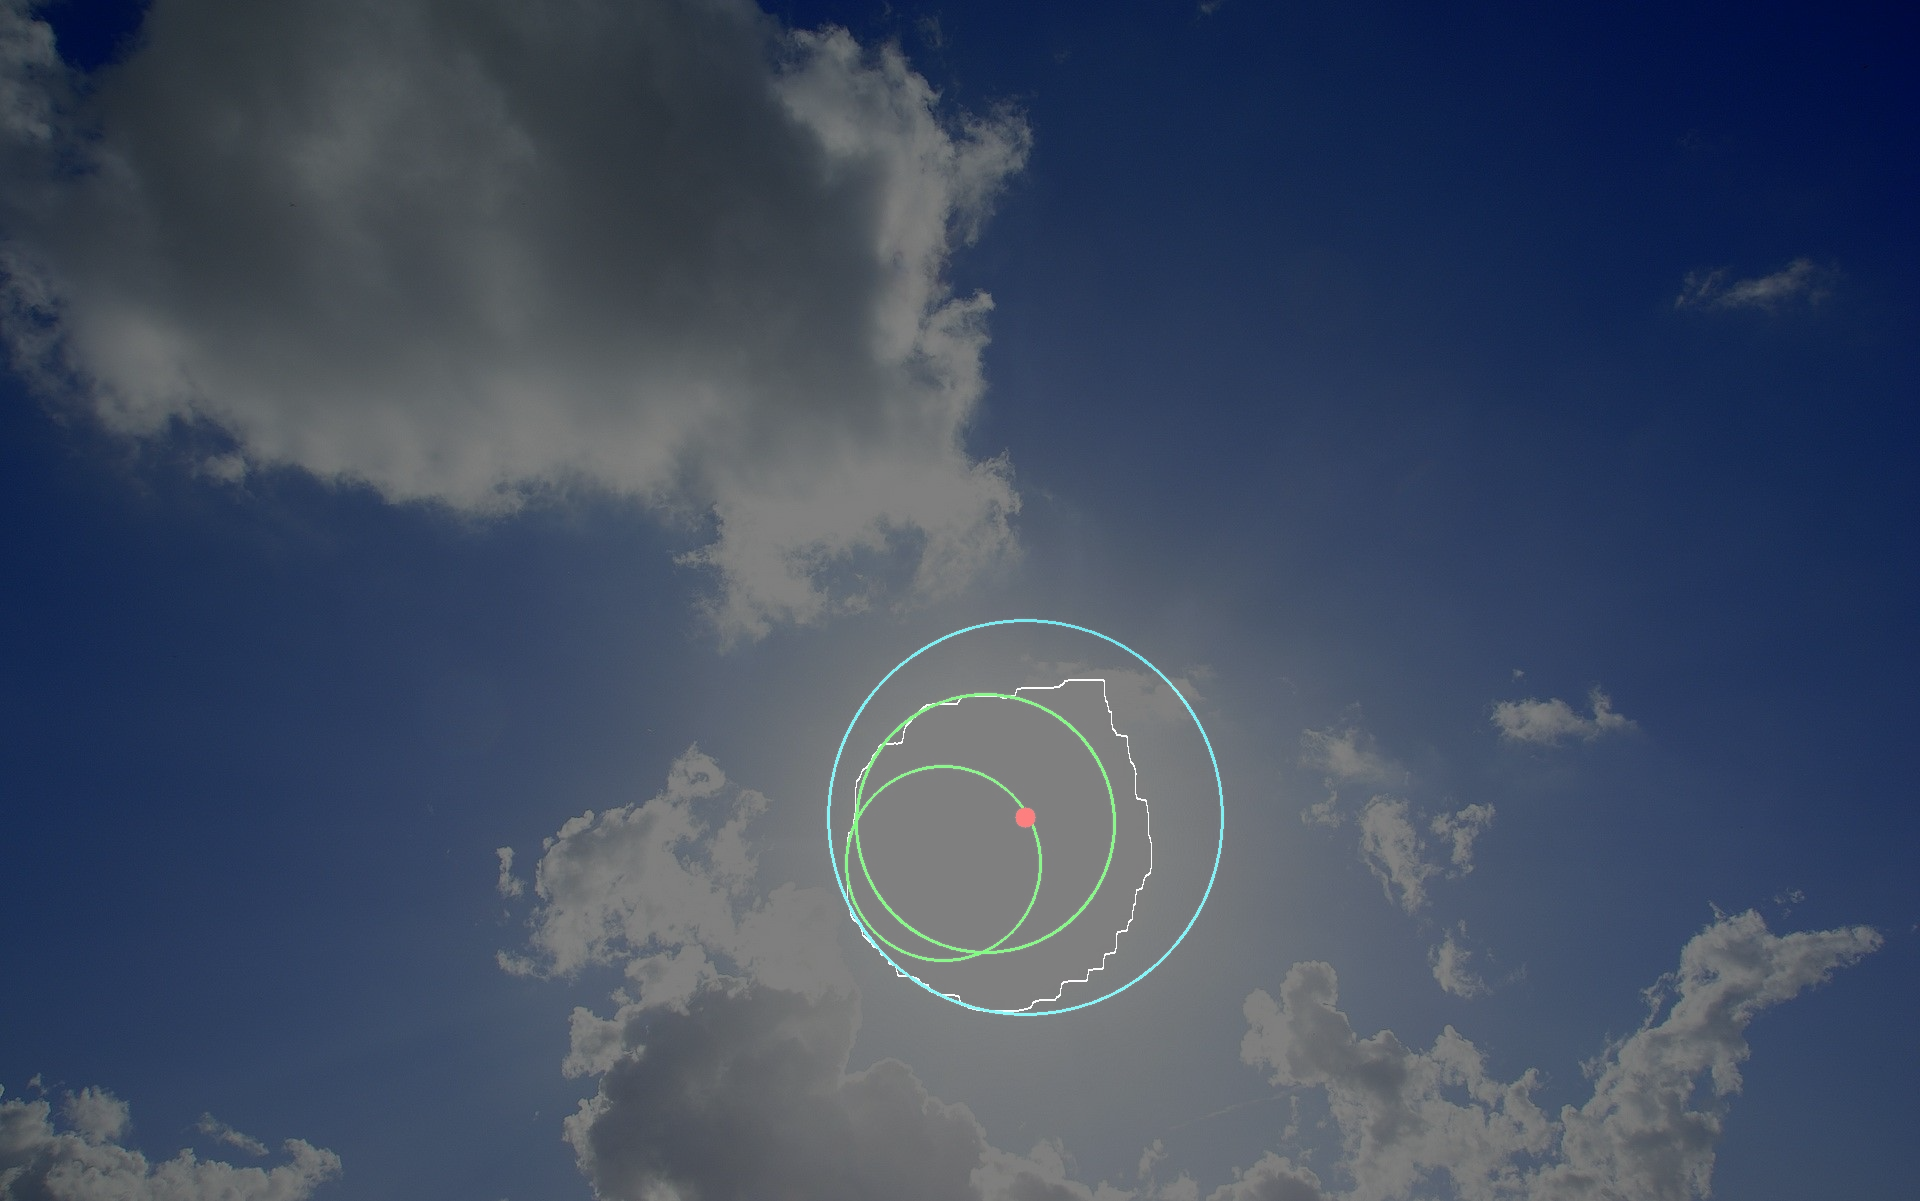
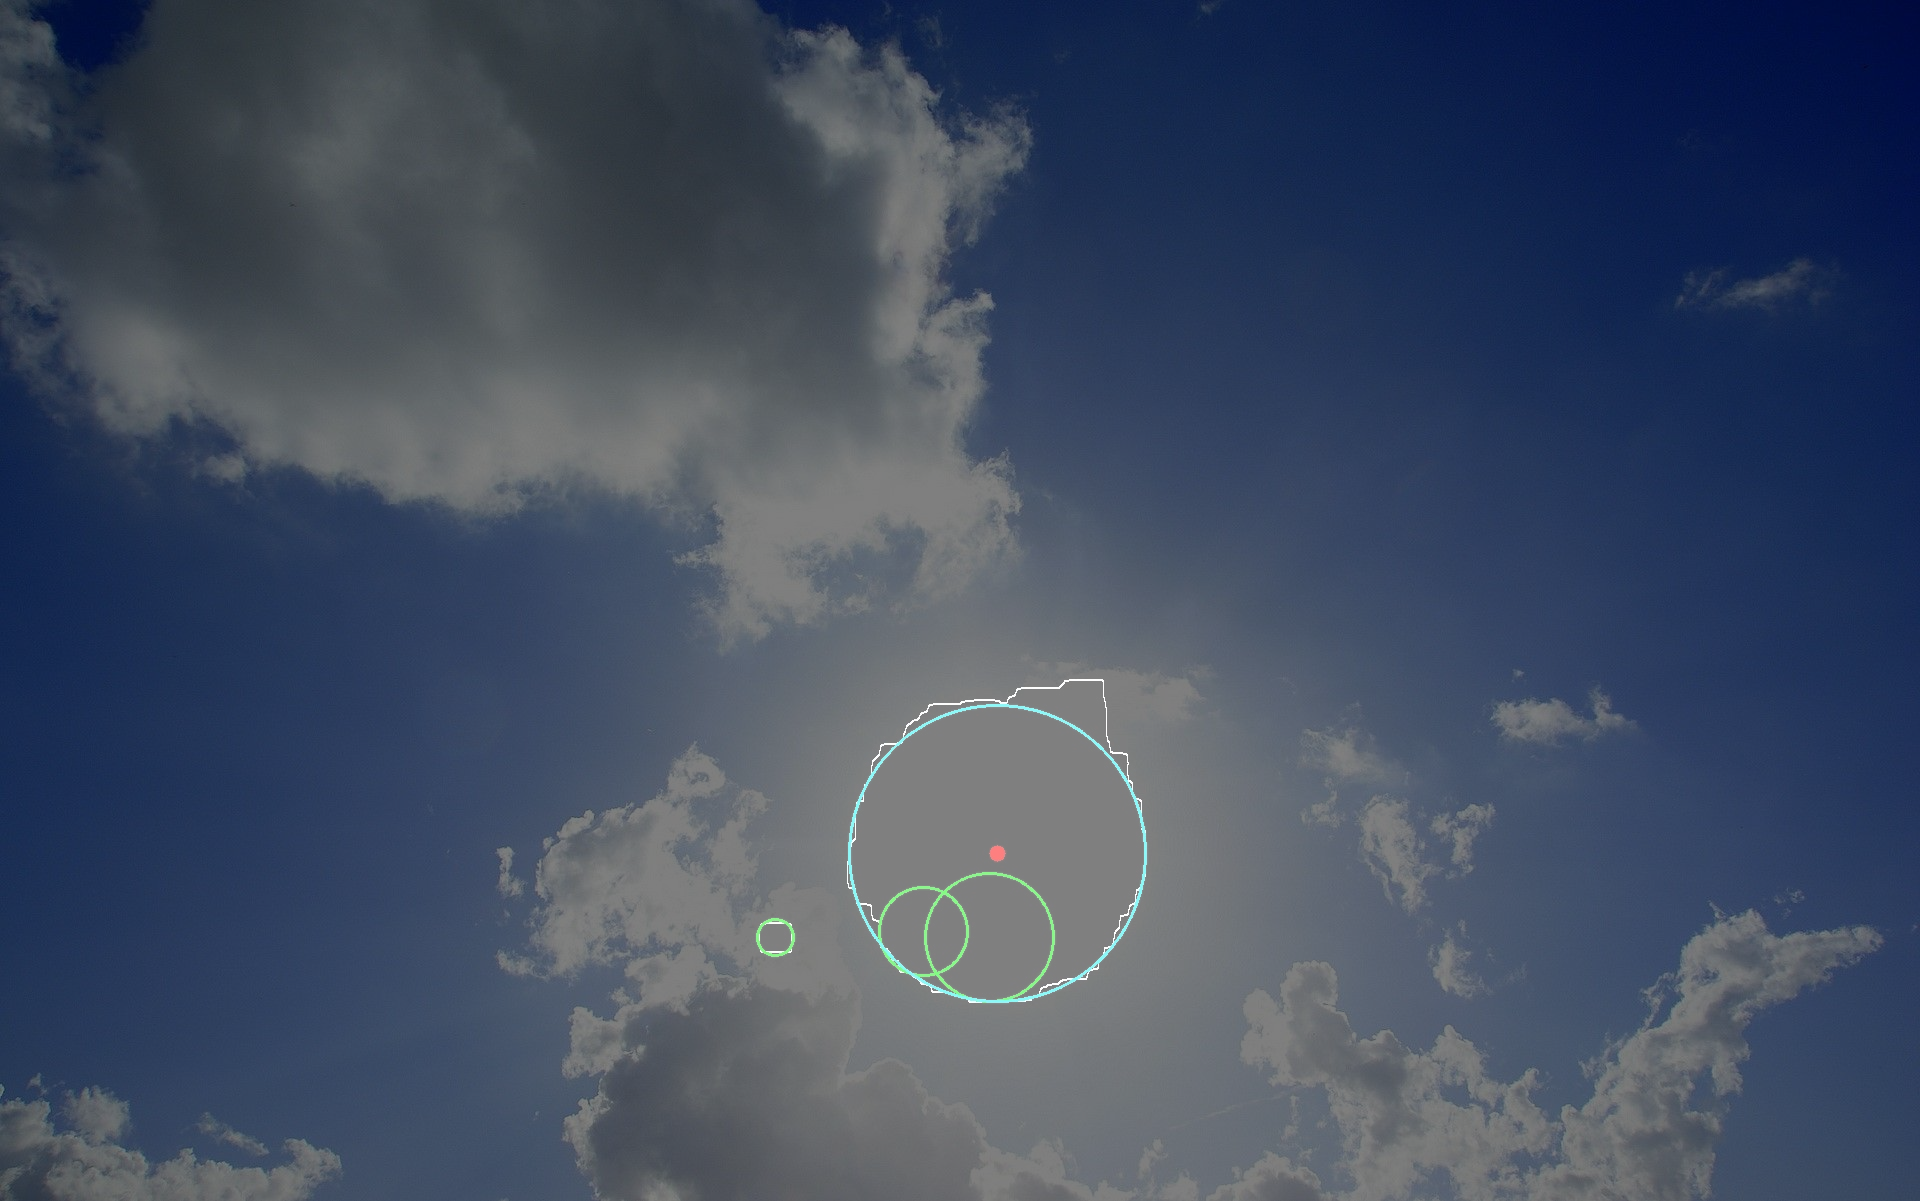
push
updates and stuff

diff --git a/pull_sun_from_image/erosion.py b/pull_sun_from_image/erosion.py
@@ -5,10 +5,42 @@ import os
 import cv2
 import numpy as np
 
-from PIL import Image
+from PIL import Image, ImageEnhance, ImageOps
 import numpy as np
 from collections import Counter
 
+
+def edit_image(image_path):
+    """
+    Edit the input image to enhance the sun's features.
+
+    Args:
+        image_path (str): The path to the input image.
+
+    Returns:
+        PIL.Image: The edited image.
+    """
+    # Load the input image
+    image = Image.open(image_path)
+
+    # Minimize exposure
+    enhancer = ImageEnhance.Brightness(image)
+    image = enhancer.enhance(0.5)  # Decrease the brightness (0.5 is an arbitrary low value)
+
+    # Maximize contrast
+    enhancer = ImageEnhance.Contrast(image)
+    image = enhancer.enhance(2.0)  # Increase the contrast (2.0 is an arbitrary high value)
+
+    # Minimize saturation
+    enhancer = ImageEnhance.Color(image)
+    image = enhancer.enhance(0.0)  # Decrease the color (0.0 removes all color)
+
+    # Maximizing shadows and highlights involves enhancing specific areas
+    # Apply auto contrast to enhance shadows and highlights
+    image = ImageOps.autocontrast(image)
+
+    # Return the edited image
+    return image
 
 def extract_white_and_darker_pixels(input_image):
     """
@@ -50,12 +82,16 @@ def extract_white_and_darker_pixels(input_image):
         high_frequency_intensities = []
         print(total_pixels)
 
-        #print("Intensity frequencies (sorted by intensity, cutoff after first intensity count under 100):")
+        reached = 0
+        # print("Intensity frequencies (sorted by intensity, cutoff after first intensity count under a threshold):")
         sorted_intensities = sorted(intensity_counter.items(), key=lambda x: x[0], reverse=True)
         for intensity, frequency in sorted_intensities:
-            #print(f"Intensity: {intensity}, Frequency: {frequency}")
-            if frequency < total_pixels * 0.000045:
+            # print(f"Intensity: {intensity}, Frequency: {frequency}")
+            if frequency > total_pixels * 0.000045:
+                reached += 1
+            if frequency < total_pixels * 0.000045 and reached >= 1:
                 break
+                # pass
             else:
                 high_frequency_intensities.append(intensity)
 
@@ -77,7 +113,11 @@ def extract_white_and_darker_pixels(input_image):
                     white_points.append((x, y))
 
         # Save the output image
-        output_image = "output_image.jpg"
+        directory = "sun_pulled_images"
+        if not os.path.exists(directory):
+            os.makedirs(directory)
+
+        output_image = f"{directory}/extracted_{os.path.splitext(os.path.basename(input_image))[0]}.jpg"
         white_image.save(output_image)
         print(f"White pixels and the next darker shades extracted and saved to {output_image}")
 
@@ -143,6 +183,8 @@ def apply_erosion(input_image):
         x_iterations_back = iterations + 1
     elif iterations:
         x_iterations_back = iterations - taken
+    else:
+        x_iterations_back = 0
 
     # Ensure we do not access out of bounds in the history list
     if x_iterations_back <= iterations:
@@ -171,28 +213,33 @@ def detect_circles(image):
     # Convert to grayscale if needed
     gray_image = cv2.cvtColor(image, cv2.COLOR_BGR2GRAY) if len(image.shape) == 3 else image.copy()
     color_image = cv2.cvtColor(gray_image, cv2.COLOR_GRAY2BGR)
-    
+
+    # Calculate the maximum distance between white pixels
+    white_pixels = np.column_stack(np.where(gray_image > 250))
+    if white_pixels.size > 0:
+        max_distance = np.max(np.linalg.norm(white_pixels[:, None] - white_pixels, axis=2))
+        mean_x = round(np.mean(white_pixels[:, 1]) if white_pixels.size > 0 else None)
+        mean_y = round(np.mean(white_pixels[:, 0]) if white_pixels.size > 0 else None)
+    else:
+        max_distance = 0
+        mean_x, mean_y = None, None
+
+    max_radius_allowed = 1.5 * max_distance
     max_radius, max_center = 0, None
-    
+
     # Hough Circle Transform
-    circles = cv2.HoughCircles(gray_image, cv2.HOUGH_GRADIENT, 1.2, 20, param1=50, param2=30, minRadius=1, maxRadius=1000)
+    circles = cv2.HoughCircles(gray_image, cv2.HOUGH_GRADIENT, 1.2, 20, param1=50, param2=30, minRadius=1, maxRadius=int(max_radius_allowed))
     if circles is not None:
         for circle in np.uint16(np.around(circles))[0, :]:
-            cv2.circle(color_image, (circle[0], circle[1]), circle[2], (0, 255, 0), 2)
-            if circle[2] > max_radius:
-                max_radius, max_center = circle[2], (circle[0], circle[1])
+            if circle[2] <= max_radius_allowed:
+                cv2.circle(color_image, (circle[0], circle[1]), circle[2], (0, 255, 0), 2)
+                if circle[2] > max_radius:
+                    max_radius, max_center = circle[2], (circle[0], circle[1])
 
-    # Threshold and find contours
-    _, thresholded_image = cv2.threshold(gray_image, 250, 255, cv2.THRESH_BINARY)
-    contours, _ = cv2.findContours(thresholded_image, cv2.RETR_EXTERNAL, cv2.CHAIN_APPROX_NONE)
-    
-    for contour in contours:
-        radius = np.sqrt(cv2.contourArea(contour) / np.pi)
-        if radius > max_radius:
-            max_radius = radius
-            x, y, w, h = cv2.boundingRect(contour)
-            max_center = (x + w // 2, y + h // 2)
-    
+    if max_radius == 0 and max_distance > 0:  # No circles found, use max distance between white pixels
+        max_radius = max_distance / 2
+        max_center = (mean_x, mean_y)
+
     if max_center:
         cv2.circle(color_image, max_center, int(max_radius), (255, 255, 0), 2)
 
@@ -258,9 +305,23 @@ if __name__ == "__main__":
         sys.exit(1)
 
     input_image = sys.argv[1]
-    white_image, output_image = extract_white_and_darker_pixels(input_image)
-    eroded_image = apply_erosion(cv2.imread(output_image, cv2.IMREAD_GRAYSCALE))
-    circle_detected_image, center, radius = detect_circles(eroded_image)
+
+    edited_image = edit_image(input_image)
+
+    directory = "edited_images"
+    if not os.path.exists(directory):
+        os.makedirs(directory)
+
+    edited_image_path = f"{directory}/edited_{os.path.splitext(os.path.basename(input_image))[0]}.jpg"
+    edited_image.save(edited_image_path)
+
+    white_image, output_image = extract_white_and_darker_pixels(edited_image_path)
+    try:
+        eroded_image = apply_erosion(cv2.imread(output_image, cv2.IMREAD_GRAYSCALE))
+        circle_detected_image, center, radius = detect_circles(eroded_image)
+    except:
+        circle_detected_image, center, radius = detect_circles(cv2.imread(output_image, cv2.IMREAD_GRAYSCALE))
+    
     cv2.imwrite('output_image_with_circles.jpg', circle_detected_image)
     draw_red_point_at_center_of_densest_area(circle_detected_image, output_image, center, math.ceil(radius))
     overlay_images(input_image, output_image)
